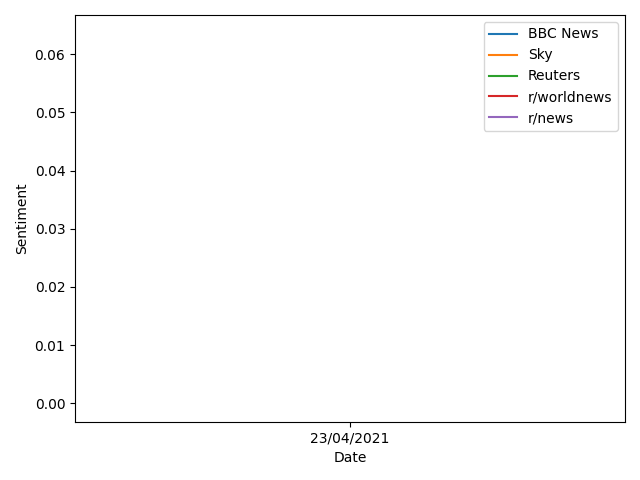
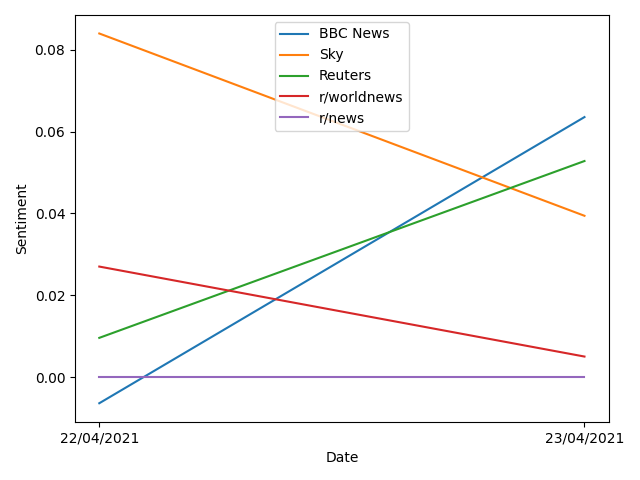
Fix csv truncating

diff --git a/code/sentiment.py b/code/sentiment.py
@@ -81,11 +81,11 @@ def main():
     with open(dir_path+'/csv/site-mean-sentiment.csv', 'r', newline="") as csvfile:
         rows = list(csv.reader(csvfile, delimiter=','))
 
-    with open(dir_path+'/csv/site-mean-sentiment.csv', 'w', newline="") as csvfile:
-        if today not in str(rows):
-            print("Writing per site mean sentiment")
-            writer = csv.writer(csvfile)
-            writer.writerow(["date"]+sites)
-            writer.writerows(rows[1:])
-            writer.writerow([today]+means)
+    if today not in str(rows):
+        with open(dir_path+'/csv/site-mean-sentiment.csv', 'w', newline="") as csvfile:
+                print("Writing per site mean sentiment")
+                writer = csv.writer(csvfile)
+                writer.writerow(["date"]+sites)
+                writer.writerows(rows[1:])
+                writer.writerow([today]+means)
             

diff --git a/code/main.py b/code/main.py
@@ -6,7 +6,7 @@ while True:
     try:
         sentiment.main()
         chart.main()
-        gitControl.update()
+        #gitControl.update()
         break
     except:
         pass
